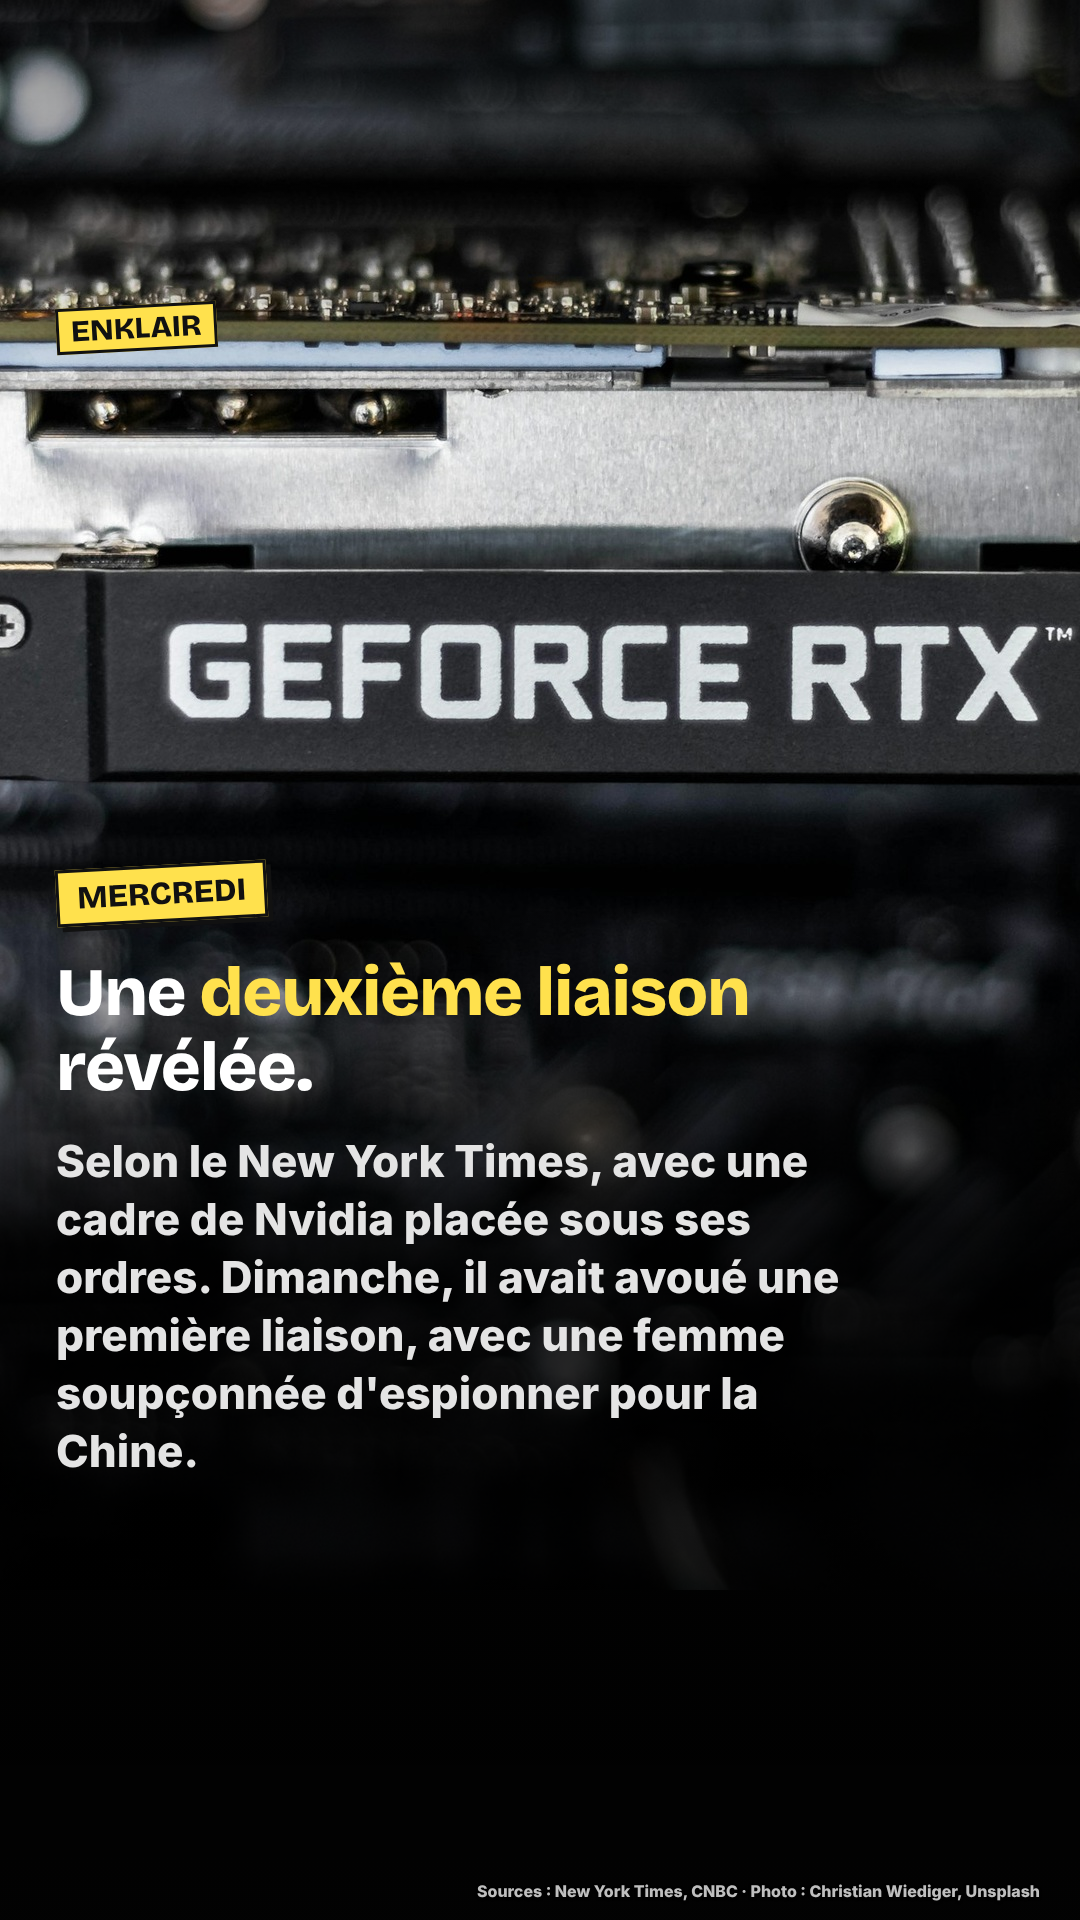
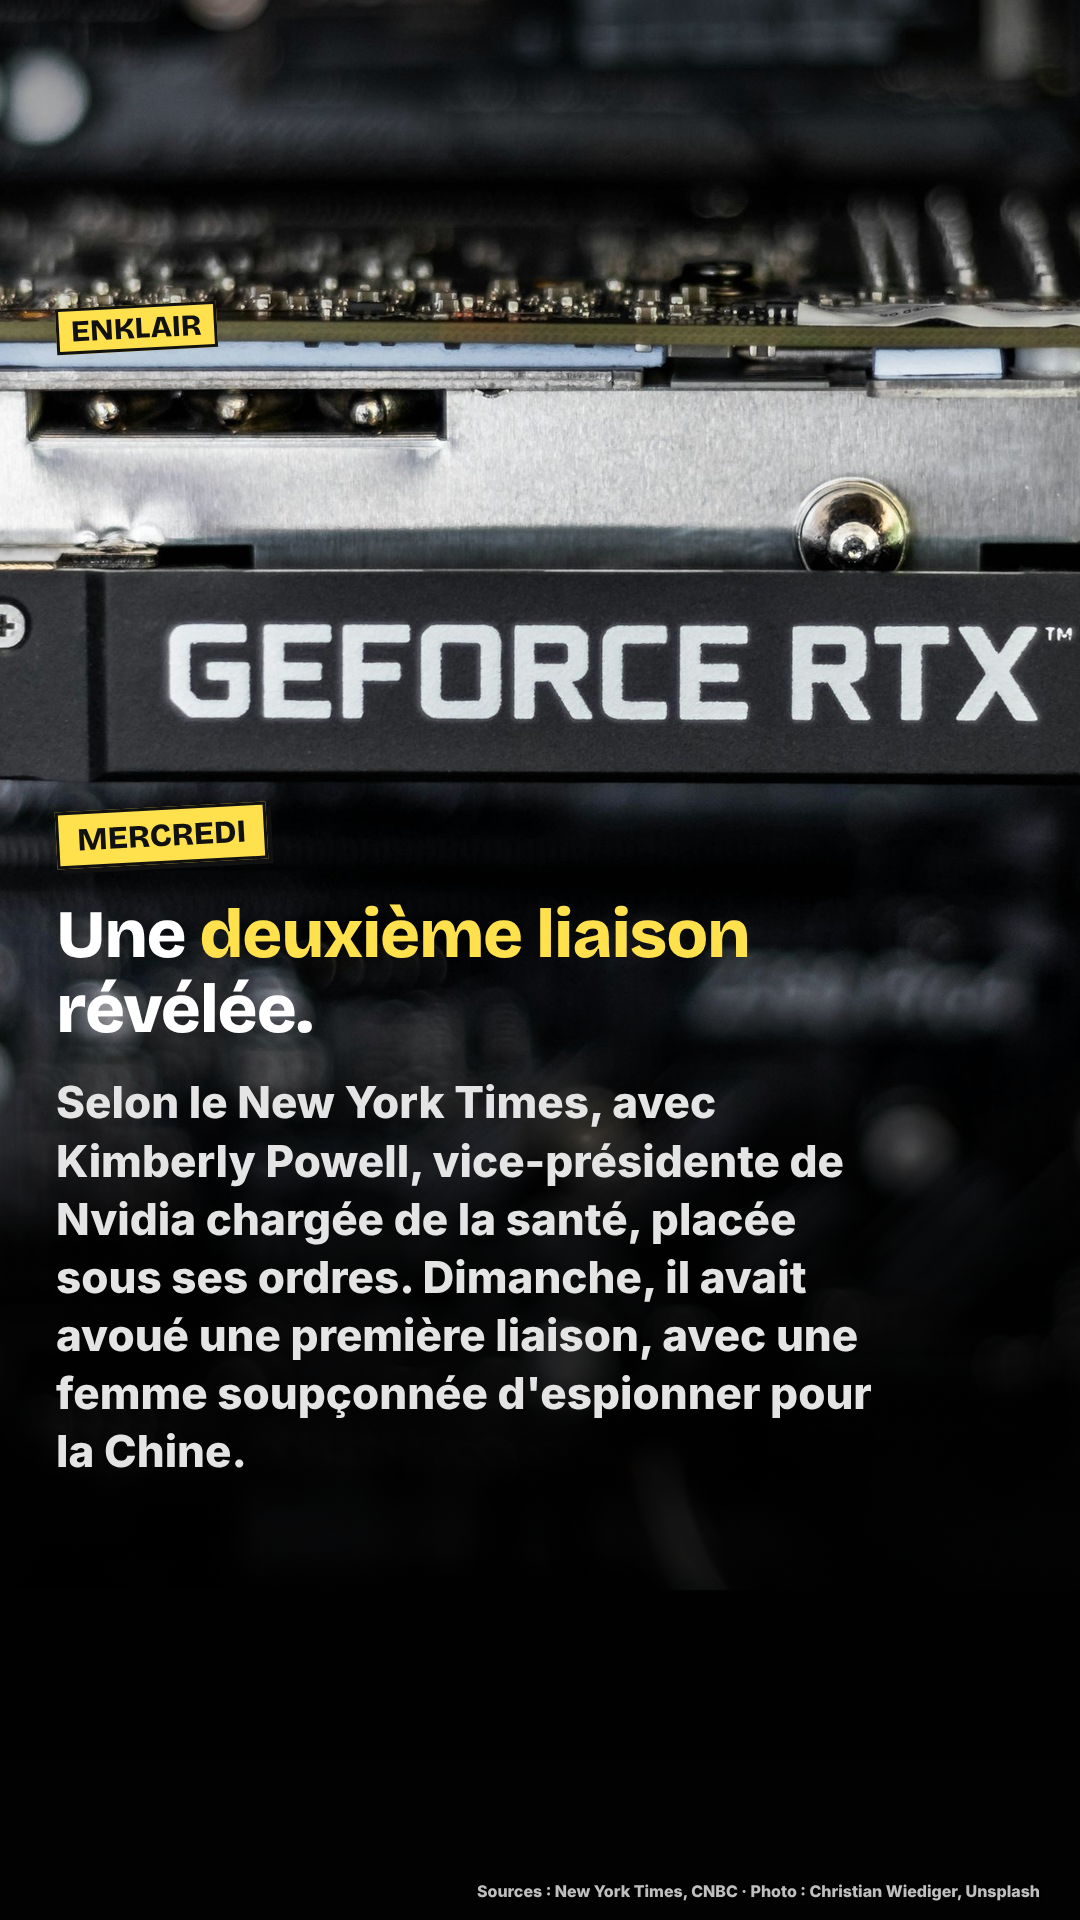
Carrousel Huang, la suite : la cadre est nommée, selon le New York Times
Claude-Session: https://claude.ai/code/session_01Jnxfj64eBoVeCGv3gBUUQk

Changed region(s): [[0.0306, 0.4062, 0.7944, 0.7812]]

diff --git a/scripts/video/carrousel/nvidia-huang-suite/tt.html b/scripts/video/carrousel/nvidia-huang-suite/tt.html
@@ -24,7 +24,7 @@ body.reel .lead{font-size:52px!important}body.reel .sub{font-size:35px!important
 // [photo, hauteur photo, début du dégradé, haut du texte, html, crédit]
 const S=[
 ['n1.jpg',1920,850,1130,`<div class="pill">NVIDIA, LA SUITE</div><div class="lead">Jensen Huang pourrait être <em>écarté de Nvidia</em>.</div><div class="sub">Il l'a fondée en 1993 et la dirige depuis 33 ans. Son conseil s'est réuni mercredi soir pour décider de son sort.</div>`,'Sources : Wall Street Journal, CNBC, Reuters · Photo : Abhishek Kumar, Unsplash'],
-['n2.jpg',1920,850,1130,`<div class="pill">MERCREDI</div><div class="lead">Une <em>deuxième liaison</em> révélée.</div><div class="sub">Selon le New York Times, avec une cadre de Nvidia placée sous ses ordres. Dimanche, il avait avoué une première liaison, avec une femme soupçonnée d'espionner pour la Chine.</div>`,'Sources : New York Times, CNBC · Photo : Christian Wiediger, Unsplash'],
+['n2.jpg',1920,850,1130,`<div class="pill">MERCREDI</div><div class="lead">Une <em>deuxième liaison</em> révélée.</div><div class="sub">Selon le New York Times, avec Kimberly Powell, vice-présidente de Nvidia chargée de la santé, placée sous ses ordres. Dimanche, il avait avoué une première liaison, avec une femme soupçonnée d'espionner pour la Chine.</div>`,'Sources : New York Times, CNBC · Photo : Christian Wiediger, Unsplash'],
 ['n3.jpg',1920,850,1130,`<div class="pill">LE CONSEIL</div><div class="lead">Dimanche, le conseil lui faisait <em>confiance</em>. Mercredi, il se réunit.</div><div class="sub">11 administrateurs, dont Huang. Une majorité suffit pour lui retirer son poste. Jeudi matin, aucune décision n'était annoncée.</div>`,'Sources : communiqué de Nvidia du 8/11, Reuters · Photo d\'illustration : Pavel Gromov, Unsplash'],
 ['n4.jpg',1920,850,1130,`<div class="lead">L'action a perdu <em>plus de 9&nbsp;%</em> en une soirée.</div><div class="sub">Mercredi, après la clôture de Wall Street, dès que la presse a annoncé que le conseil préparait son départ.</div>`,'Source : CNBC, 11/11 · Photo d\'illustration : Maxim Hopman, Unsplash'],
 ['n5.jpg',1920,850,1130,`<div class="pill">ET APRÈS&nbsp;?</div><div class="lead">Tim Cook à la tête de Nvidia&nbsp;? <em>Une idée, pas une annonce.</em></div><div class="sub">Le nom de l'ancien patron d'Apple vient d'un professeur de Yale, pas de Nvidia. Huang, 63 ans, n'a jamais désigné de successeur.</div>`,'Sources : CNBC-TV18, Fortune · Photo : siège d\'Apple, Carles Rabada, Unsplash'],
